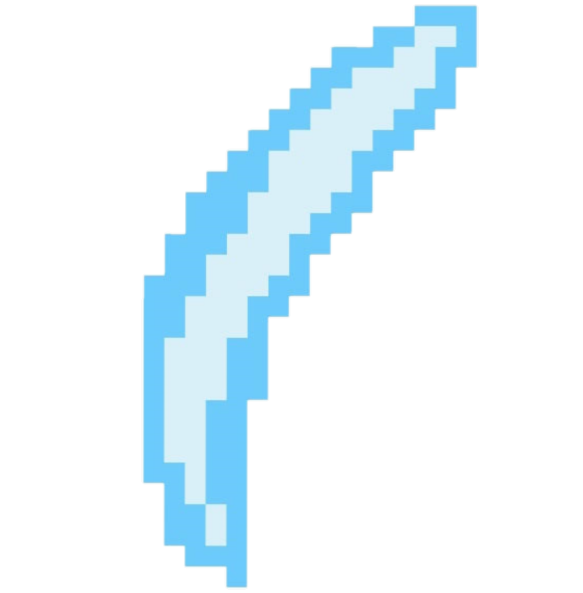
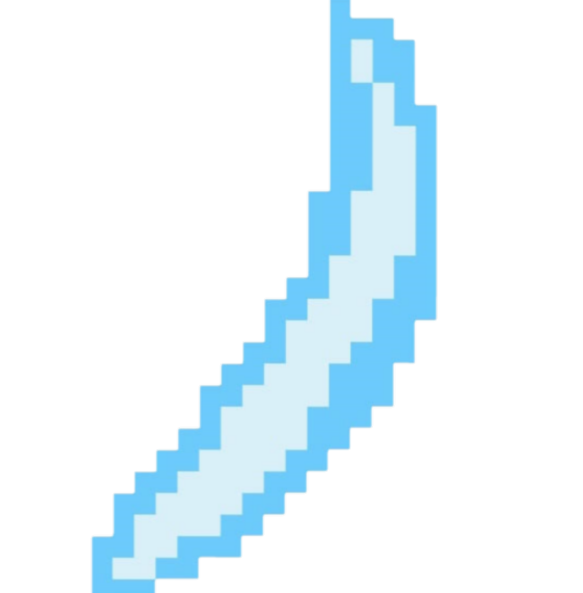
Added a slash going the opposite direction for double daggers attacks. Renamed main.js to index.js

diff --git a/js/constructors/weapons.js b/js/constructors/weapons.js
@@ -1,6 +1,6 @@
 import { combatLog, heroStaminaCounter } from "../docElements.js";
-import { chosenCharacter } from "../main.js";
-import { dmgAnimation } from "../combatUtil.js";
+import { chosenCharacter } from "../index.js";
+import { dmgAnimation, dmgAnimation2 } from "../combatUtil.js";
 
 //WEAPON CLASS CONSTRUCTORS
 class Weapon {
@@ -73,11 +73,6 @@ class DoubleDaggers extends Weapon {
         const totalRoll1 = naturalRoll1 + chosenCharacter.dexterity
         console.log(`Your first total roll is ${totalRoll1}`)
 
-        const naturalRoll2 = Math.floor(Math.random() * (20 - 5) + 2)
-        console.log(`Your second roll is ${naturalRoll2}`)
-        const totalRoll2 = naturalRoll2 + chosenCharacter.dexterity
-        console.log(`Your second total roll is ${totalRoll2}`)
-
         let totalDmg1
         let multiLog1;
         if (totalRoll1 >= targetHit) {
@@ -92,17 +87,24 @@ class DoubleDaggers extends Weapon {
             multiLog1 = 'misses';
         }
 
+        const naturalRoll2 = Math.floor(Math.random() * (20 - 5) + 2)
+        console.log(`Your second roll is ${naturalRoll2}`)
+        const totalRoll2 = naturalRoll2 + chosenCharacter.dexterity
+        console.log(`Your second total roll is ${totalRoll2}`)
+
+
+
         let totalDmg2;
         let multiLog2;
         if (totalRoll2 >= targetHit) {
             const damage2 = Math.floor(Math.random() * (3 - 1) + 1);
-            dmgAnimation('./assets/damage.png')
+            dmgAnimation2('./assets/damage-2.png')
             totalDmg2 = damage2 + chosenCharacter.dexterity
             console.log(`total damage 2: ${totalDmg2}`)
             multiLog2 = `deals ${totalDmg2} damage`
         } else {
             totalDmg2 = 0
-            dmgAnimation('./assets/miss.png')
+            dmgAnimation2('./assets/miss-2.png')
             multiLog2 = 'misses';
         }
 
@@ -141,14 +143,14 @@ class DoubleDaggers extends Weapon {
         let multiLog2;
         if (totalRoll2 >= targetHit) {
             const damage2 = Math.floor(Math.random() * (4 - 1) + 1);
-            dmgAnimation('./assets/damage.png')
+            dmgAnimation2('./assets/damage-2.png')
             totalDmg2 = damage2 + chosenCharacter.dexterity
             console.log(`total damage 2: ${totalDmg2}`)
             multiLog2 = `deals ${totalDmg2} damage`
         } else {
             console.log('Your second attack missed!')
             totalDmg2 = 0
-            dmgAnimation('./assets/miss.png')
+            dmgAnimation2('./assets/miss-2.png')
             multiLog2 = 'misses';
         }
 

diff --git a/js/combatUtil.js b/js/combatUtil.js
@@ -1,6 +1,6 @@
-import { attackBtn1, attackBtn2, specialBtn1, chosenCharacter, monster, monsterHpBar, heroHpBar } from "./main.js"
+import { attackBtn1, attackBtn2, specialBtn1, chosenCharacter, monster, monsterHpBar, heroHpBar } from "./index.js"
 import { monsterRoster } from "./constructors/monster.js"
-import { monsterDmgImg, heroDmgImg, heroStaminaCounter, monsterStaminaCounter, turnDisplay, charArmorRating, charHitDiv, charSpecial } from "./docElements.js"
+import { monsterDmgImg, heroDmgImg, heroStaminaCounter, monsterStaminaCounter, turnDisplay, charArmorRating, charHitDiv, charSpecial, monsterDmgImg2 } from "./docElements.js"
 
 let isHeroTurn = true
 function turnBannerChange(truthiness) {
@@ -76,6 +76,21 @@ function dmgSlashDisappear() {
     monsterDmgImg.style.display = 'none'
 }
 
+/////MUST MAKE THIS MORE DRY????????? Second parameter that is only sent with the second attack
+
+function dmgAnimation2(src) {
+    dmgSlashAppear2(src);
+    setTimeout(dmgSlashDisappear2, 500)
+}
+function dmgSlashAppear2(src) {
+    monsterDmgImg2.setAttribute('src', src)
+    monsterDmgImg2.style.display = 'block'
+}
+
+function dmgSlashDisappear2() {
+    monsterDmgImg2.style.display = 'none'
+}
+
 //--------
 function monDmgAnimation(src) {
     monDmgSlashAppear(src);
@@ -91,4 +106,4 @@ function monDmgSlashDisappear() {
 }
 
 
-export { changeTurn1, changeTurn2, cpuPause, dmgAnimation, monDmgAnimation, isHeroTurn, turnBannerChange, buffDisplay, clearBuffDisplay }
+export { changeTurn1, changeTurn2, cpuPause, dmgAnimation, dmgAnimation2, monDmgAnimation, isHeroTurn, turnBannerChange, buffDisplay, clearBuffDisplay }

diff --git a/js/docElements.js b/js/docElements.js
@@ -46,6 +46,7 @@ charAvatar.append(charNameDiv, charImgDiv)
 const playBtn = document.getElementById('play-btn')
 const charSelectionDiv = document.getElementById('character-selection-div')
 const monsterDmgImg = document.getElementById('monster-dmg')
+const monsterDmgImg2 = document.getElementById('monster-dmg-2')
 const heroDmgImg = document.getElementById('hero-dmg')
 const combatDiv = document.getElementById('combat-div')
 const combatLog = document.getElementById('combat-log')
@@ -60,4 +61,4 @@ const monsterStaminaCounter = document.getElementById('monster-stam-counter')
 monsterStaminaCounter.setAttribute('class', 'stamina-counter')
 
 
-export {charContainer, charCard, charAvatar, charNameDiv, charClassDiv, charHpDiv, charStrDiv, charDexDiv, charWisDiv, charHitDiv, charSpecial, equipCard, charWeaponName, charWeaponType, charWeaponWeight, charWeaponAttack1, charWeaponAttack2, charArmorName, charArmorClass, charArmorWeight, charArmorRating, charImgDiv, playBtn, playAgainBtn, charSelectionDiv, combatDiv, combatLog,monsterDmgImg, heroDmgImg, heroStaminaCounter, turnDisplay, monsterStaminaCounter}
+export {charContainer, charCard, charAvatar, charNameDiv, charClassDiv, charHpDiv, charStrDiv, charDexDiv, charWisDiv, charHitDiv, charSpecial, equipCard, charWeaponName, charWeaponType, charWeaponWeight, charWeaponAttack1, charWeaponAttack2, charArmorName, charArmorClass, charArmorWeight, charArmorRating, charImgDiv, playBtn, playAgainBtn, charSelectionDiv, combatDiv, combatLog,monsterDmgImg, monsterDmgImg2, heroDmgImg, heroStaminaCounter, turnDisplay, monsterStaminaCounter}

diff --git a/css/style.css b/css/style.css
@@ -93,10 +93,10 @@ p {
 
 #character-img-div {
     height: 110px;
-    background-color: white;
+    background-image: linear-gradient(lightblue 0%, lightblue 40%, rgb(148, 107, 70) 45%, rgb(110, 79, 52) 100%);
     width: 110px;
     position: relative;
-    bottom:10px;
+    bottom: 10px;
     border: 7px ridge var(--silver);
 }
 
@@ -109,7 +109,7 @@ p {
 }
 
 #character-card {
-    background-image:url('../assets/parchment-background.PNG');
+    background-image: url('../assets/parchment-background.PNG');
     background-size: cover;
     position: relative;
     background-image: brightness(50%);
@@ -175,7 +175,7 @@ button:hover {
 
 #arena {
     position: relative;
-    background-image: linear-gradient(lightblue 0%, lightblue 58%, var(--brown) 62%, var(--brown) 100%);
+    background-image: linear-gradient(lightblue 0%, lightblue 58%, rgb(148, 107, 70) 62%, rgb(110, 79, 52) 100%);
     margin: 10px;
     padding: 0;
     height: 500px;
@@ -215,12 +215,12 @@ button:hover {
     font-size: 20px;
     align-items: center;
     background-color: var(--silver);
-    border: 10px ridge ;
+    border: 10px ridge;
     border-radius: 10px;
     padding-left: 10px;
     padding-right: 10px;
     height: 30px;
-    
+
 }
 
 .arena-img {
@@ -333,13 +333,13 @@ button:hover {
         margin-top: 0px;
         width: 100%;
     }
-    
+
     #turn-display {
         padding: 0px;
         border: 10px double black;
         border-radius: 20px;
         text-align: center;
-    
+
     }
 
     .stam-div {

diff --git a/js/constructors/monster.js b/js/constructors/monster.js
@@ -1,6 +1,6 @@
 import { changeTurn2, monDmgAnimation } from "../combatUtil.js";
-import { charHpDiv, combatLog, monsterStaminaCounter,} from "../docElements.js";
-import { chosenCharacter, loser } from "../main.js";
+import { charHpDiv, combatLog, monsterStaminaCounter, } from "../docElements.js";
+import { chosenCharacter, loser } from "../index.js";
 
 //MONSTER CLASS CONSTRUCTORS
 class Monster {
@@ -23,7 +23,7 @@ class Undead extends Monster {
         console.log(chosenCharacter)
         const naturalRoll = Math.floor(Math.random() * (20 - 8) + 8)
         console.log(`The ${this.name} rolls ${naturalRoll}`)
-        monsterStaminaCounter.textContent -- 
+        monsterStaminaCounter.textContent--
         changeTurn2()
 
         if (naturalRoll >= targetHit) {
@@ -51,7 +51,7 @@ class Undead extends Monster {
     }
 }
 
-const undead = new Undead ('Undead', 20, 20, 10, './assets/undead-static.png', 1)
+const undead = new Undead('Undead', 20, 20, 10, './assets/undead-static.png', 1)
 
 //-----------------------------------------------
 
@@ -64,7 +64,7 @@ class Goblin extends Monster {
         console.log(chosenCharacter)
         const naturalRoll = Math.floor(Math.random() * (20 - 12) + 12)
         console.log(`The ${this.name} rolls ${naturalRoll}`)
-        monsterStaminaCounter.textContent -- 
+        monsterStaminaCounter.textContent--
         changeTurn2()
 
         if (naturalRoll >= targetHit) {

diff --git a/js/constructors/character.js b/js/constructors/character.js
@@ -1,7 +1,7 @@
 import { valeGreatsword, slickDoubleDaggers } from "./weapons.js";
 import { plateArmor, leatherArmor } from "./armor.js";
 import { charHpDiv, charStrDiv, charDexDiv, charWisDiv, charHitDiv, charArmorRating, combatLog, charSpecial } from '../docElements.js'
-import { chosenCharacter } from "../main.js";
+import { chosenCharacter } from "../index.js";
 import { buffDisplay, clearBuffDisplay } from "../combatUtil.js";
 
 

diff --git a/index.html b/index.html
@@ -37,6 +37,7 @@
                     <p class='hp-bar' id="monster-hp-bar"> </p>
                     <img class='arena-img' id="arena-monster-avatar">
                     <img class="dmg-img arena-img" id="monster-dmg">
+                    <img class="dmg-img arena-img" id="monster-dmg-2">
                 </div>
             </div>
             <p id='combat-log'> </p>
